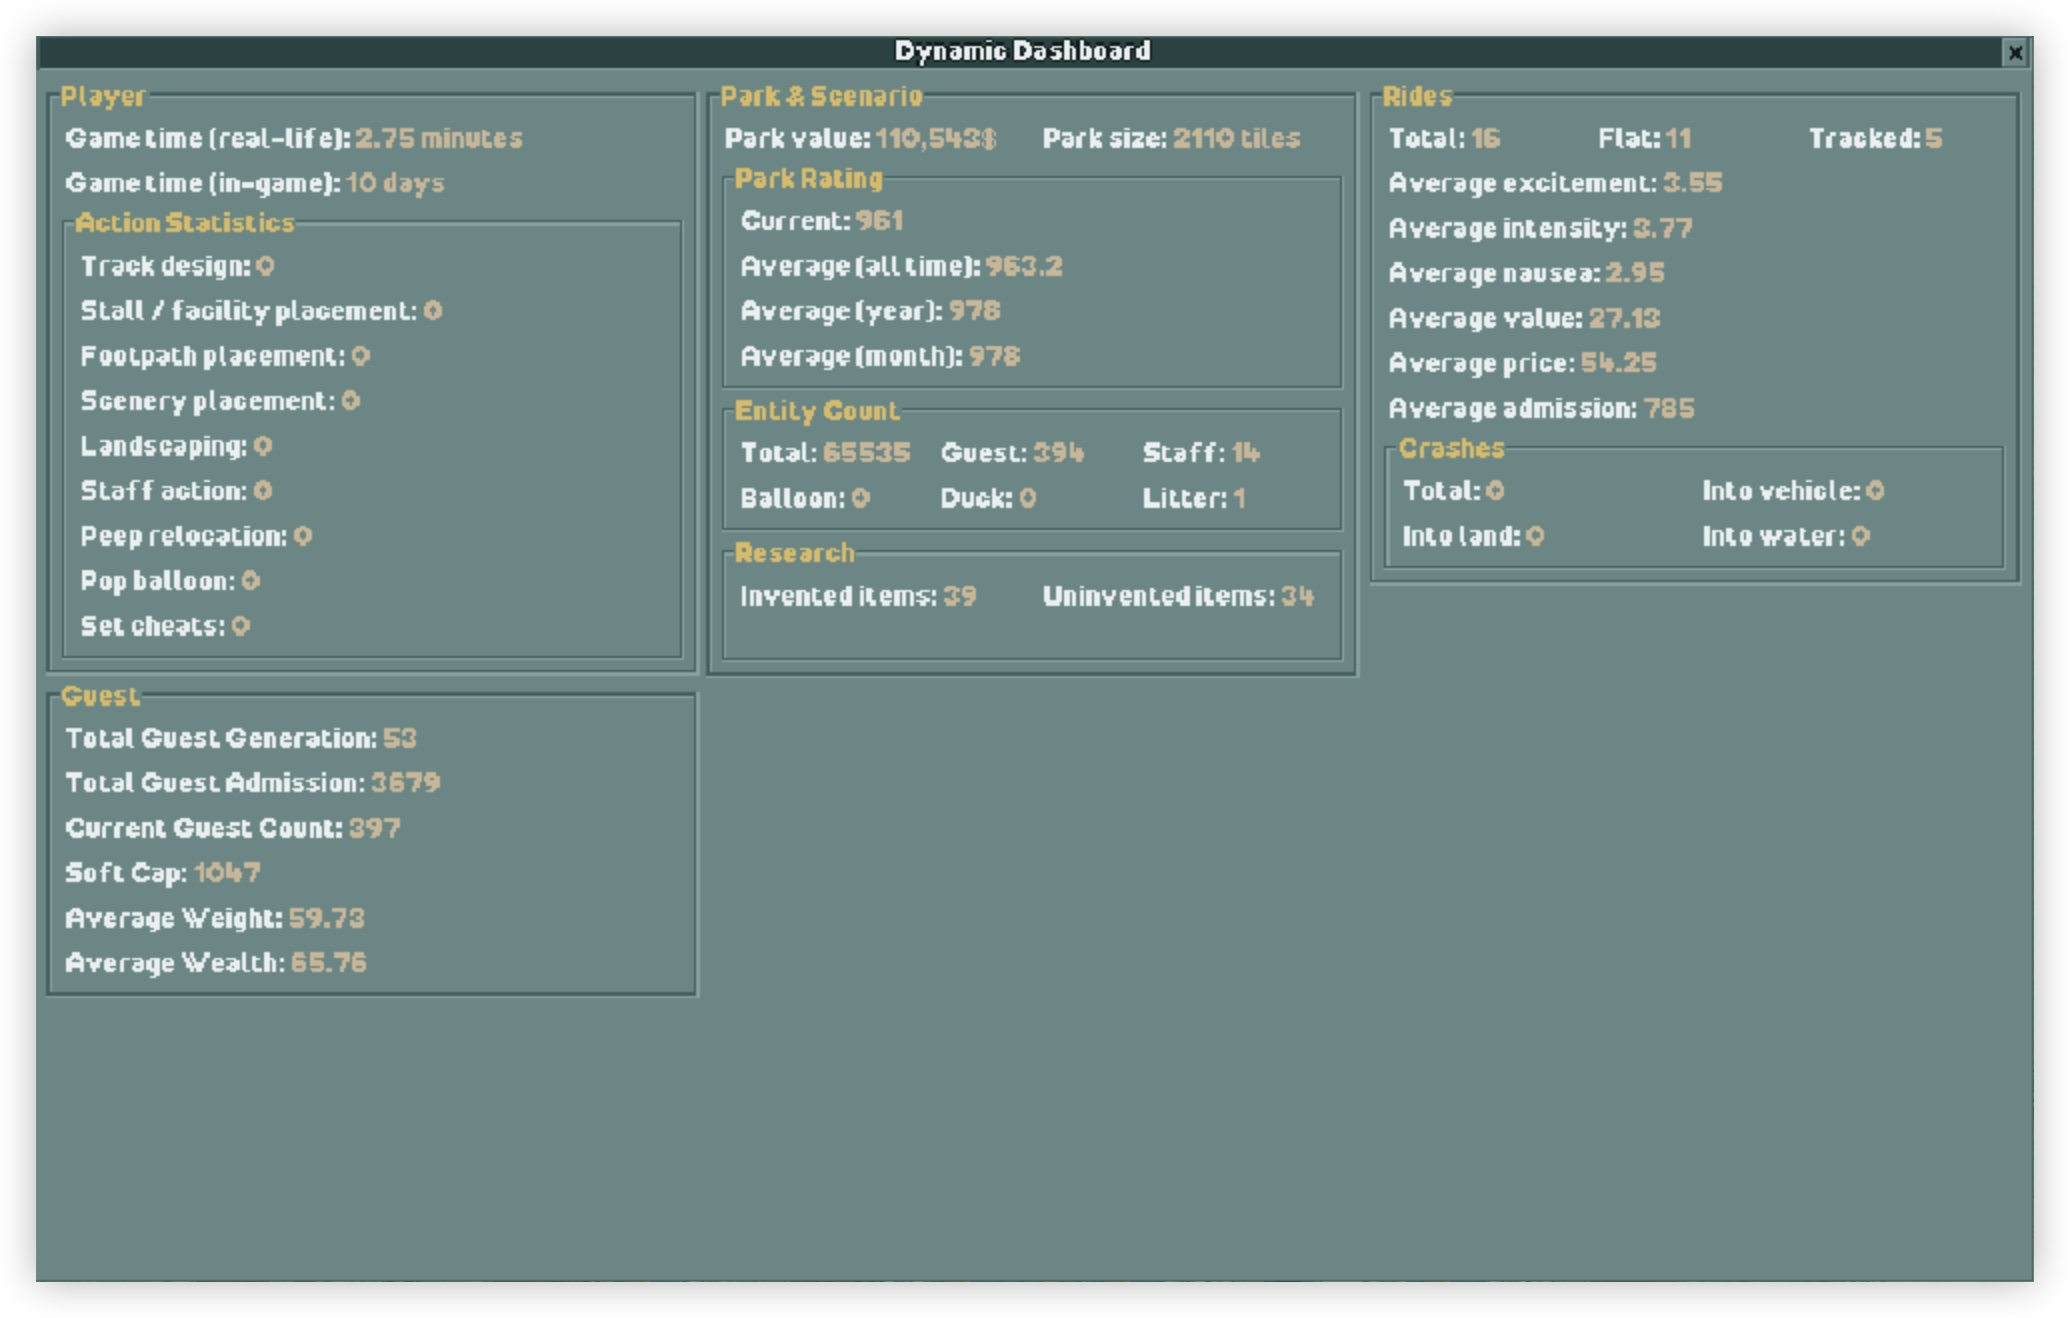
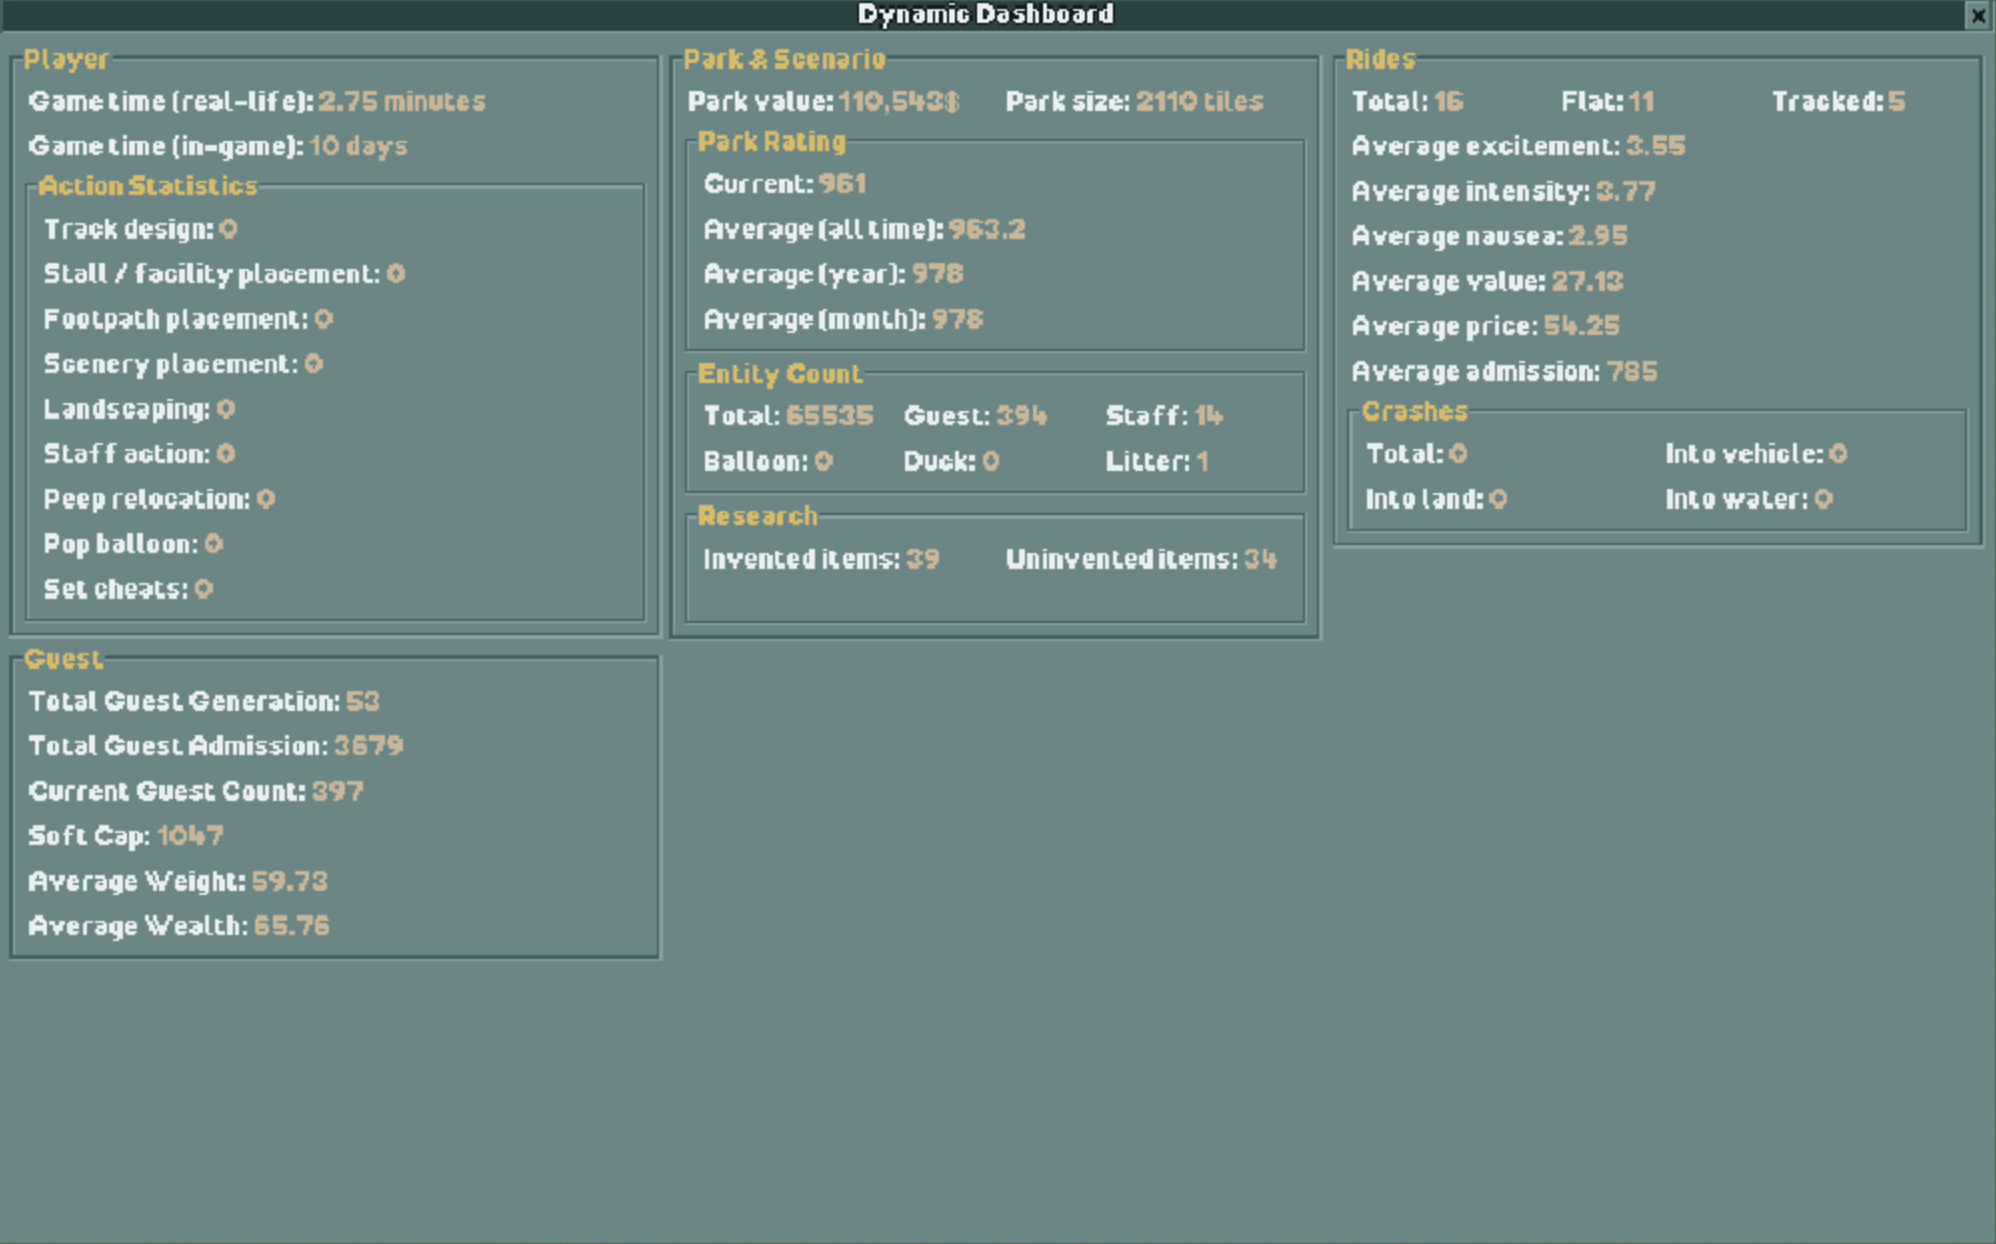
update screenshot

Changed region(s): [[0.0, 0.0, 1.0, 1.0]]

diff --git a/README.md b/README.md
@@ -11,3 +11,7 @@
 ## Features (Preview)
 
 ![](https://github.com/mrmagic2020/openrct2-dynamicdashboard/blob/main/Assets/Dashboard%20Structure.png?raw=true)
+
+## Screenshot (Preview)
+
+![](https://github.com/mrmagic2020/openrct2-dynamicdashboard/blob/main/Assets/Screenshot.jpg?raw=true)
